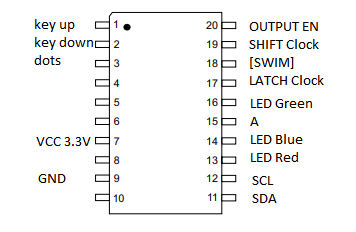
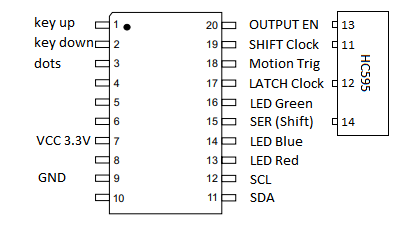
little fix
for connection diagram
+random depoisoning method

diff --git a/NixieClock/helpers.h b/NixieClock/helpers.h
@@ -76,6 +76,13 @@ void rgbFade()
   ledcWrite(3, RGB_A[2]);
 }
 
+void NixieRandom()
+{
+  for(int i=2; i<14; i++){
+    NixieDisplay(random(10), random(10), random(10), random(10));
+    delayt(80);
+  }  
+}
 
 void NixieScroll(bool toleft)
 {
@@ -96,6 +103,7 @@ void NixieFadeIn()
 {
   memset(nixieDisplayArray, 0, TOTALPOINTS); 
 
+  //Turn on couple of segments simultaneously
   for(int i=2; i<14; i++){
     nixieDisplayArray[nixie1[fadeArr[i-2]]] = 0;
     nixieDisplayArray[nixie2[fadeArr[i-2]]] = 0;
@@ -187,6 +195,7 @@ void updateRTC()
 {
   if(!timeClient.forceUpdate()){
     Serial.println("NTP server unavailable");
+    //TODO: fetch NTP server from DHCP, try that instead
 
     timer.in(30000, [](void*) -> bool { 
       updateRTC();

diff --git a/NixieClock/workers.h b/NixieClock/workers.h
@@ -16,7 +16,7 @@ bool clockTick(void *)
   timer.in(60000 - second*1000, clockTick);
 
   //funny poisoning protection
-  switch(random(3)){
+  switch(random(4)){
     case 0:
       NixieScroll(SCROLL_LEFT);
       break;
@@ -25,6 +25,9 @@ bool clockTick(void *)
       break;
     case 2:
       NixieFadeIn();
+      break;
+    case 3:
+      NixieRandom();
       break;
   }
 

diff --git a/README.md b/README.md
@@ -36,10 +36,11 @@ Currently Wi-Fi connection required to startup (but having RTC onboard with back
 
 After connecting to wireless network clocks will try to sync time with default NTP server (pool.ntp.org). While that backlight color changes to BLUE. If NTP server accessable - new time writes to RTC. If timeout occur - this step skipped for now and will be retried after 30 seconds.
 
-Regardless of the previous step result clock will request current time from RTC every minute and output that via nixie tubes. To prevent nixie poisoning before each update there will be scroll through all nixie elements.
+Regardless of the previous step result clock will request current time from RTC every minute and output that via nixie tubes. To prevent nixie poisoning before each update there will be scroll through all nixie segments.
 
 # TODO
 
 - Some functional logic for buttons (backlight color change?)
 - Failback access point to be able so setup WiFI creds
 - Make Wi-Fi connection optional and in the background if RTC running
+- Use NTP server from DHCP advertisement instead of default if failed
